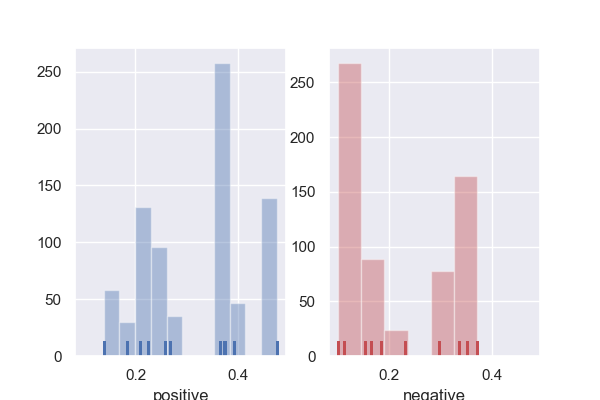
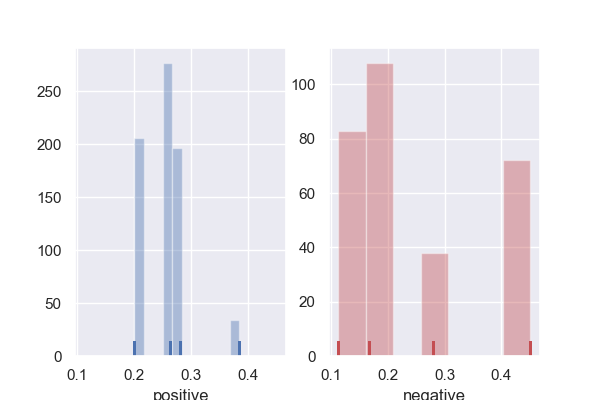
update graphs

diff --git a/src/templates/home.html b/src/templates/home.html
@@ -11,10 +11,10 @@
 var xhttp = new XMLHttpRequest();
 xhttp.onreadystatechange = function() {
 	if (this.readyState == 4 && this.status == 200) {
-	var myArr = JSON.parse(this.responseText);
-        disp_users(myArr);
-    	}
-};
+		var myArr = JSON.parse(this.responseText);
+		disp_users(myArr);
+		}
+	};
 xhttp.open("GET", "users/", true);
 xhttp.send();
 
@@ -26,7 +26,7 @@ function disp_users(arr) {
         out += '<option value="' + arr.users[i]['name'] + '">' +
         arr.users[i]['name'] + '</option>';
     }
-	out='<select id="id_user">'+out+'</select>'
+    out='<select id="id_user">'+out+'</select>'
     document.getElementById("users").innerHTML = out;
 }
 
@@ -53,11 +53,15 @@ function disp_chats(arr) {
     document.getElementById("chats").innerHTML = out;
 }
 
-<!-- ***  get message script section ***-->
+
+<!-- ***  get message script section and load buttons   *** -->
+
 function carga_mensajes_chat(){
-    actualiza_imagen()
-    conn= "message/"+document.getElementById("id_chat").value+'/'
-    muestra_mensajes("chat",conn,"user")
+    conn="sentiment/"+document.getElementById("id_chat").value+'/';
+    actualiza_sentiments_chat(conn);
+    actualiza_imagen();
+    conn= "message/"+document.getElementById("id_chat").value+'/';
+    muestra_mensajes("chat",conn,"user");
 }
 function carga_mensajes_user(){
     conn="message_u/"+document.getElementById("id_user").value+'/'
@@ -101,7 +105,7 @@ function disp_message(arr,tipo,consulta) {
 <div id="chats"><select "id_chat"></select></div>
 <p> Load the messages 
 <button type="button" onclick="carga_mensajes_chat()">load</button>
-<p id="chat_titulo">
+<p id="chat_titulo"></p>
 <img src="chat_sentiment" id="chat_sent" alt="chat sentiments" > 
 
 <h3>users</h3>
@@ -126,7 +130,27 @@ function disp_message(arr,tipo,consulta) {
     }
 
     function actualiza_imagen() {
-        document.getElementById("chat_sent").src += `?v=${new Date().getTime()}`;
+	    var image = document.getElementById("chat_sent");
+	    image.src = image.src.split("?")[0] + "?" + new Date().getTime();
     }
+
+function actualiza_sentiments_chat(conn){
+	var xhttp = new XMLHttpRequest();
+	xhttp.onreadystatechange = function() {
+		if (this.readyState == 4 && this.status == 200) {
+			var myArr = JSON.parse(this.responseText);
+			disp_sentiment(myArr);
+			}
+		};
+	xhttp.open("GET", conn, true);
+	xhttp.send();
+}
+
+function disp_sentiment(myArr){
+	var out = " The mean values in the chat "+myArr['chat']+" are: <br>";
+	out+= " Neg: "+myArr['Neg']+"   --   Pos: " +myArr['Pos'] +"<br>";
+	out+= " Neu: "+ myArr['neu']+"   --   Compound: "+ myArr['compound'];
+    	document.getElementById("chat_titulo").innerHTML = out;
+}
 </script>
 </html> 

diff --git a/src/routes/sentiments.py b/src/routes/sentiments.py
@@ -51,10 +51,10 @@ def sentiment_chat(chat,graph=True):
 
     # Write in sentiment colletion
     chat_sentiment={"chat":chat,
-            "Pos":df.positive.mean(),
-            "Neg":df.negative.mean(),
-            "neu":df.neutro.mean(),
-            "compound":df.compound.mean()}
+            "Pos":round(df.positive.mean(),4),
+            "Neg":round(df.negative.mean(),4),
+            "neu":round(df.neutro.mean(),4),
+            "compound":round(df.compound.mean(),4)}
 
     # in case the graph is True, it checks if chat as bee already
     # inserted in sentiment
@@ -68,9 +68,9 @@ def sentiment_chat(chat,graph=True):
         print(f'*** write sentiments of chat {chat}')
 
     return {"chat":chat,
-            "Pos":df.positive.mean(),
-            "Neg":df.negative.mean(),
-            "neu":df.neutro.mean(),
-            "compound":df.compound.mean()}
+            "Pos":round(df.positive.mean(),4),
+            "Neg":round(df.negative.mean(),4),
+            "neu":round(df.neutro.mean(),4),
+            "compound":round(df.compound.mean(),4)}
 
 
